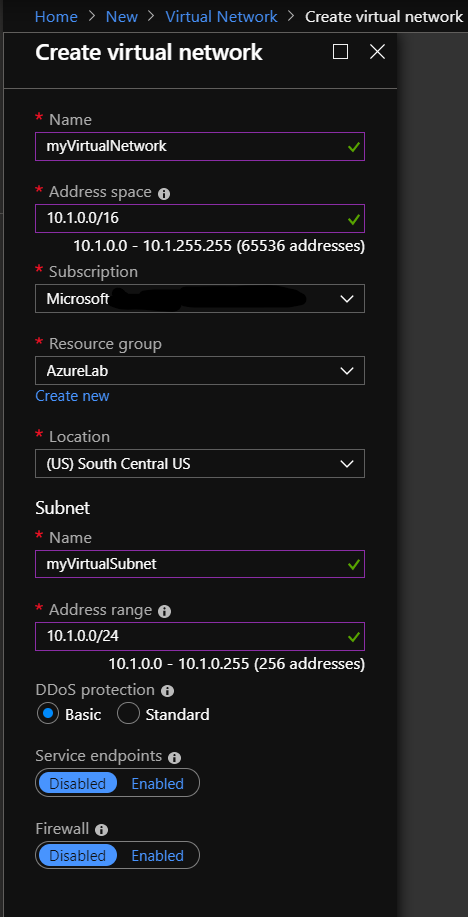
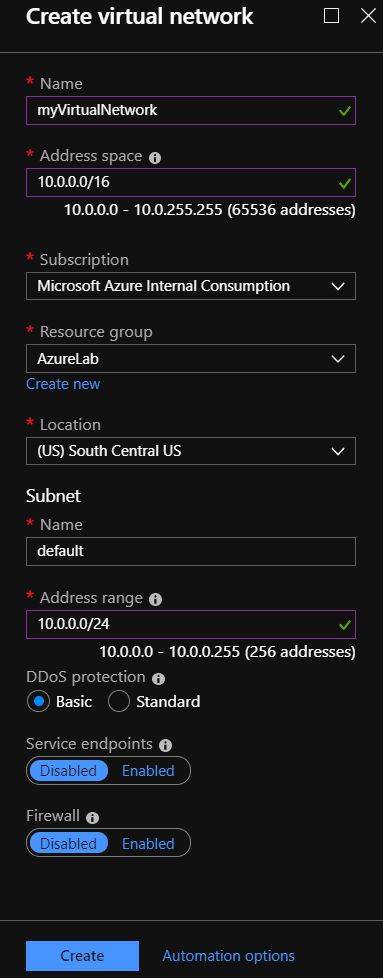
Adding portal instruactions and Windows VM mounting to Files Share

diff --git a/AzureFundamentals/FileShare/CreateAFileShare.md b/AzureFundamentals/FileShare/CreateAFileShare.md
@@ -1,11 +1,12 @@
-[![N|Solid](https://cldup.com/dTxpPi9lDf.thumb.png)](https://nodesource.com/products/nsolid)
-
-[![Build Status](https://travis-ci.org/joemccann/dillinger.svg?branch=master)](https://travis-ci.org/joemccann/dillinger)
-
 # Create a File Share and Mount to VM
 
-In this document you will learn how to:
+## Tasks 
+- Create a File Share
+    - [Create a File Share and Mount to VM via the Azure Portal](#azure-portal)
+    - [Create a File Share and Mount to VM via Azure CLI](#azure-cli)  
+- [Mount Files Share to VM](#Mount-Files-Share)
 
+In this document you will learn how to:
 - Create a Storage Account
   - Create a FileShare
   - Upload a file
@@ -14,8 +15,43 @@ In this document you will learn how to:
 - List files on VM
 
 ----
+## Azure Portal
+### Task 1: Create a Storage Account
+Before you can work with an Azure file share, you have to create an Azure storage account. A general-purpose v2 storage account provides access to all of the Azure Storage services: blobs, files, queues, and tables. The quickstart creates a general-purpose v2 storage account but, the steps to create any type of storage account are similar. A storage account can contain an unlimited number of shares. A share can store an unlimited number of files, up to the capacity limits of the storage account.
 
-## Create a Storage Account
+Storage account names must be unique, so make sure to replace "USEDUAzureLabstorage" with a unique name.
+
+1. In the [Azure Portal](https://portal.azure.com), click the **+Create a resource** link at the top left of the page.
+1. In the Search field, type *Storage* and click on **Storage Account** that appears in the drop down list and click **Create.**
+![Select Azure Resource Group](media/1.png)
+1. In **Create storage account**, enter or select this information:
+    - `Project details - Subscription`	Select your subscription.
+    - `Project details - Resource Group`	Select *AzureLab*.
+    
+    - `Instance details - Storage account name`	Enter a *globally unique* name.
+    - `Instance details - Location`	Select *South Central US*.
+    - `Instance details - Replication`	Select *Locally-redundant Storage (LRS)*  
+![Select Azure Resource Group](media/2.png)
+1. Click **Review + Create** and once validation has passed, click **Create**
+1. Check the **Notifications** icon in the upper right and wait unitl you see **Resource group created**, then click the **Go to resource** button.
+1. From the Storage Account menu, click on **Access Keys** and copy the value of **key2's Key**  
+![Select Azure Resource Group](media/3.png)
+
+
+### Task 2: Create an Azure Files File Share
+1. From the Storage Account menu, click on **Files** and then **+File share**
+![Select Azure Resource Group](media/4.png)
+1. Set the **Name** to *myshare* and the **Quota** to *100 GiB* and press **Create**  
+![Select Azure Resource Group](media/5.png)
+1. From the the Files screen, select the **myshare** share we have just created and then click on **+Add Directory**
+1. Enter *myDirectory* as the directory **Name** and click **OK**
+![Select Azure Resource Group](media/6.png)
+1. Upload a local text file to the directory by clicking the **Upload** button, followed by the **Folder** icon, selecting the local file, and finally clicking the second **Upload** button on the Upload Files blade.  
+![Select Azure Resource Group](media/7.png)
+
+
+## Azure CLI
+### Create a Storage Account
 
 Before you can work with an Azure file share, you have to create an Azure storage account. A general-purpose v2 storage account provides access to all of the Azure Storage services: blobs, files, queues, and tables. The quickstart creates a general-purpose v2 storage account but, the steps to create any type of storage account are similar. A storage account can contain an unlimited number of shares. A share can store an unlimited number of files, up to the capacity limits of the storage account.
 
@@ -25,7 +61,7 @@ The following example creates a storage account named mystorageaccount  by using
 
 az storage account create  --resource-group "AzureLab"   --name "useduazurelabstorage"  --location eastus2 --sku Standard_LRS --query "name" | tr -d '"'
 ```
-Further documentation:  [Create a File Share Documentation]
+Further documentation:  [Create a File Share Documentation](https://docs.microsoft.com/en-us/azure/storage/files/storage-how-to-use-files-cl)
 
 ### Get the Storage Account Key
 
@@ -74,7 +110,8 @@ az storage file list --account-name useduazurelabstorage --account-key WZIIDm1Df
 ```  
 ----
 
-## Attached File Share to Linux VM
+## Mount Files Share
+### Mount to Linux VM
 
 We will attach the File Share to one of the VM created on our previous Lab
 
@@ -136,10 +173,22 @@ drwxrwxrwx 2 root root    0 May 24 15:30 myDirectory
 usr@myVm2:/mnt/MyAzureFileShare$
 ```
 
-Further documentation: [Mount Files Share to Linux VM]
+Further documentation: [Mount Files Share to Linux VM](https://docs.microsoft.com/en-us/azure/storage/files/storage-how-to-use-files-linux)
 
-[Next -> Backup a Virtual Machine]
+### Mount to Windows VM
+1. Use the RDP client to remotely connect to your Windows virtual machine.  
+1. Open **File Explorer.** This can be done by opening from the Start Menu, or by pressing Win+E shortcut.  
+1. Navigate to the **This PC** item on the left-hand side of the window. This will change the menus available in the ribbon. Under the Computer menu, select **Map network drive.**   
+![Select Azure Resource Group](media/8.png)
+1. Copy the UNC path from the Connect pane in the Azure portal.  
+![Select Azure Resource Group](media/9.png)
+1. Select the drive letter and enter the UNC path and check **Connect using different credentials**  
+![Select Azure Resource Group](media/10.png)
+1. Use the storage account name prepended with AZURE\ as the username and a storage account key as the password.    
+![Select Azure Resource Group](media/11.png)
+1. Use Azure file share as desired.   
+![Select Azure Resource Group](media/12.png)
 
-[Create a File Share Documentation]: <https://docs.microsoft.com/en-us/azure/storage/files/storage-how-to-use-files-cli>
-[Mount Files Share to Linux VM]: <https://docs.microsoft.com/en-us/azure/storage/files/storage-how-to-use-files-linux>
-[Next -> Backup a Virtual Machine]:<https://github.com/Microsoft-USEduAzure/workshops/blob/master/AzureFundamentals/Backup/BackupVM.md>
+Further documentation: [Mount Files Share on Windows VM](https://docs.microsoft.com/en-us/azure/storage/files/storage-how-to-use-files-windows)
+
+### Next: [Backup a Virtual Machine](../Backup/BackupVM.md) ###

diff --git a/AzureFundamentals/VirtualNetwork/VirtualNetwork.md b/AzureFundamentals/VirtualNetwork/VirtualNetwork.md
@@ -12,12 +12,12 @@
 1. Click the **Create** button.
 1. In **Create virtual network**, enter or select this information:
     - `Name`	Enter myVirtualNetwork.
-    - `Address space`	Enter 10.1.0.0/16.
+    - `Address space`	Enter 10.0.0.0/16.
     - `Subscription`	Select your subscription.
     - `Resource group`	Select AzureLab.
     - `Location`	Select South Central US.
-    - `Subnet - Name`	Enter myVirtualSubnet.
-    - `Subnet - Address` range	Enter 10.1.0.0/24.
+    - `Subnet - Name`	Enter default.
+    - `Subnet - Address` range	Enter 10.0.0.0/24.
 
     ![Select Azure Resource Group](media/2.png)
 1. Leave the rest of the defaults and select Create.
